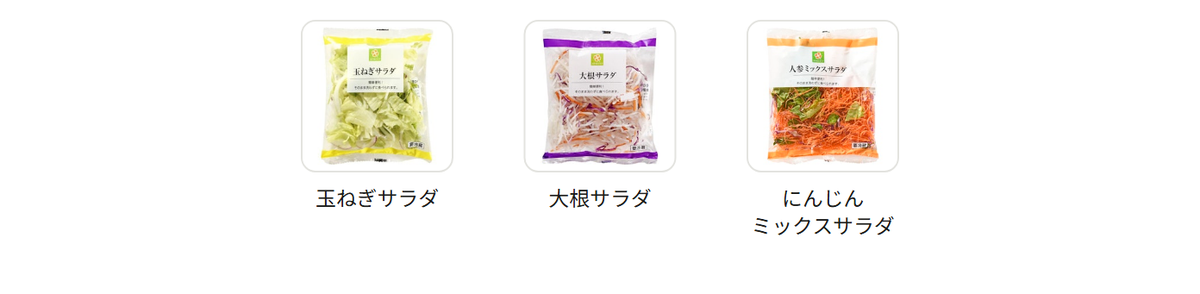
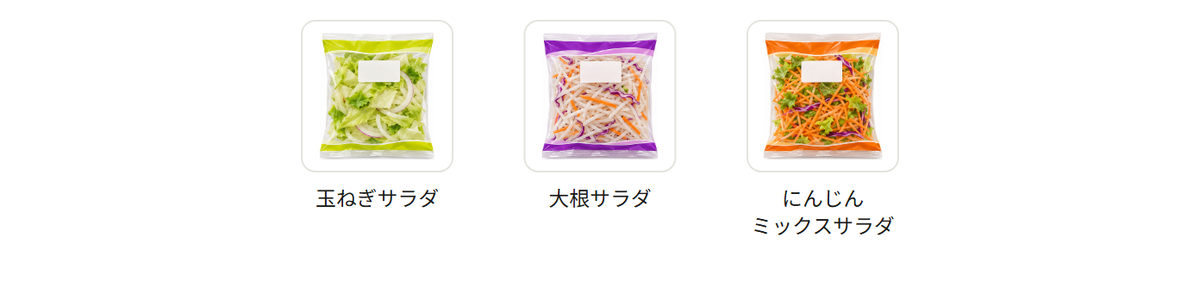
レビュー用ページ: 商品写真を架空の商品画像に差し替え

Changed region(s): [[0.6167, 0.1224, 0.74, 0.551], [0.4317, 0.0918, 0.555, 0.5816], [0.2467, 0.0918, 0.37, 0.551]]

diff --git a/ai-netsuper/index.html b/ai-netsuper/index.html
@@ -84,9 +84,9 @@ img.eye{margin:0 0 26px;border:0;border-radius:6px}
 <h2>AIでネットスーパーを操作する</h2>
 <p>ネットスーパーの操作には、AIがブラウザを操作できる Chrome の拡張機能「Claude in Chrome」を使いました。AIがライフのネットスーパーの画面を開き、献立に必要な商品が実際に買えるかを確かめながら、1週間分の買い物リストを作りました。</p>
 <p>特に便利だったのは、商品パッケージの画像も読んで、容量や表示を確かめてくれたことです。サラダはこれまで袋から出すだけで食べていたので、冷凍野菜も電子レンジを使わずに食べられるものを探してもらいました。AIが選んだのは、パッケージに「自然解凍でOK」と書かれた商品（富士通商の「手間なし！」シリーズのブロッコリーといんげん）です。冷凍コーンには、自然解凍できるという表示が確認できなかったので、コーンは缶詰にしました。1食分の量も「ブロッコリー70g＋コーン40g」のように出してくれました。</p>
-<img src="img07.png?v=62576e7f" alt="">
+<img src="img07.png?v=676c2b8c" alt="">
 <p>AIに買い物を考えてもらいましたが、一部の商品はネットスーパーで取り扱われていないこともわかりました。たとえば、店頭で買っていた千切りキャベツ（税抜79〜128円）はありませんでした。そこで、代わりの商品もAIに提案してもらいました。カット野菜は玉ねぎサラダ、大根サラダ、にんじんミックスサラダにしています。</p>
-<img src="img08.png?v=37c6e9ff" alt="">
+<img src="img08.png?v=1f8fa1ca" alt="">
 <p>AIは献立と買い物リストを、商品の写真つきのページにまとめてくれました。リストの合計は税込で約13,000円（税抜で約12,000円）になり、送料無料の条件を満たしました。</p>
 <img src="img09.jpg?v=e8ccbea3" alt="">
 <p class="cap">献立と買い物リストのページのイメージ（生成AIで作成）</p>
@@ -94,21 +94,21 @@ img.eye{margin:0 0 26px;border:0;border-radius:6px}
 <p>提案してもらった商品については、家族でレビューしていきます。妻と私で商品リストと献立を見て、マイク入力機能を使ってAIにフィードバックを伝えながら直しました。</p>
 <img src="img10.png?v=061bb3f1" alt="">
 <p class="cap">家族でのレビューで伝えた直し</p>
-<img src="img11.png?v=da7d137a" alt="">
+<img src="img11.png?v=e9e6f685" alt="">
 <p>我が家ならではの事情も伝えました。たとえば牛乳は、娘が「ギューギュー」と言いながらねだるので減りが早く、冷蔵庫には常に3本ほど置いておきたいと伝えました。</p>
 <h2>ちょっとだけランダム要素も追加</h2>
 <p>我が家では基本的に毎回私が買い物に行っているため、どうしても同じようなものばかり買ってしまうんですよね。</p>
 <p>そこで、AIにちょっとだけランダムに商品を選んでもらうようにしました。土日の昼に食べる温めるだけのごはんもの（ビビンバ、炒飯、ピラフなど12品）から、毎週2袋をAIが選びます。</p>
-<img src="img12.png?v=b04082d7" alt="">
+<img src="img12.png?v=7054279f" alt="">
 <h2>毎週の買い物をさらに効率化する</h2>
 <h3>マイリストへの登録</h3>
 <p>ライフのネットスーパーには「マイリスト」という機能があります。商品ページのハートマーク（お気に入りのボタン）を押すと、その商品がマイリストの「お気に入り商品」に入り、次からはその一覧からカートに入れられます。</p>
-<p>マイリストに商品を登録すれば、毎週の買い物はかなり楽になります。（AIエージェントにとっても楽になります）</p>
+<p>マイリストに商品を登録すれば、毎週の買い物はかなり楽になります。（AIエージェントにとっても、楽になります）</p>
 <img src="img13.jpg?v=317aa1c5" alt="">
 <p class="cap">マイリストに登録した商品の一覧のイメージ（生成AIで作成）</p>
 <h3>買い物量の調整</h3>
 <p>量を調整する必要があるものと言えば、ピルクルです。ピルクルとは要するにヤクルトみたいなもので、うちでは鉄分入りのピルクルを重宝しています。ピルクルは基本10個入りで、我が家では1日に2個消費します。つまり、1週間では14個必要です。1セットでは4個足りません。</p>
-<img src="img14.png?v=58e4a79f" alt="">
+<img src="img14.png?v=8b36f4cf" alt="">
 <img src="img15.png?v=08f61970" alt="">
 <p>一週間1セットで足りないからといって、毎週2セットずつ購入していると、毎週6個ずつ余っていきます。これを繰り返していると、どんどん在庫が増えてしまいます。</p>
 <img src="img16.png?v=61543fd7" alt="">
@@ -116,12 +116,12 @@ img.eye{margin:0 0 26px;border:0;border-radius:6px}
 <p>そこで、AIに在庫を考慮して購入数量を調整してもらうことにしました。たとえば、注文するときに残りの数をAIに伝え、4個以上残っていれば1セット、4個未満なら2セット買います。</p>
 <img src="img17.png?v=a79480c9" alt="">
 <p>食パンも同じです。我が家では8枚切りを毎日4枚、1週間に3袋半くらい消費するので、4袋買う必要があります。ただ、これを毎週繰り返していると、だんだん余っていくんですよね。こういった商品についても、AIに購入数量を調整してもらいます。</p>
-<img src="img18.png?v=531a4fa5" alt="">
+<img src="img18.png?v=5820ec1c" alt="">
 <img src="img19.png?v=18e33338" alt="">
 <h2>日用品の購入も効率化する</h2>
 <p>日用品（トイレットペーパー、洗剤、ボディソープの詰め替えなど）についても、ライフのネットスーパーで購入できるものと、購入できないものがあります。レシートにあった日用品を調べると、クリニカの洗口液を除いて、同じか近い商品がライフにありました。レシートには出てこないものの家で使っている日用品も調べると、浄水器のカートリッジ、掃除機の紙パック、加湿器のフィルターはありませんでした。</p>
 <p>そこで、購入できるものはライフのネットスーパーにまとめ、取り扱いのないものはAmazonの定期購入を利用することにしました。</p>
-<img src="img20.png?v=018586ae" alt="">
+<img src="img20.png?v=968bfdaa" alt="">
 <p class="cap">「ない」側の写真は、生成AIで作ったイメージです。</p>
 <h2>ほかのネットスーパーやAIでもできる？</h2>
 <p>ここまでの話は、ライフのネットスーパーと Claude in Chrome の組み合わせです。ネットスーパーの操作で私が試したのはこの組み合わせだけなので、ここからは「できそう」という話になります。</p>
@@ -145,7 +145,6 @@ img.eye{margin:0 0 26px;border:0;border-radius:6px}
 <p>レシートの分析から、献立、買い物リスト、マイリストへの登録、毎週の数の調整まで、AIに任せることができます。店に行く時間だけでなく、何を買うか、いくつ買うかを毎回考える手間も減らせます。</p>
 <p>今回はライフのネットスーパーの例でしたが、Claude in Chrome は画面を見ながら操作するので、パソコンのブラウザで注文できるネットスーパーなら、同じようにできると思います。お使いのネットスーパーで、試してみてください。</p>
 <hr>
-<p>個人情報を守るため、記事の内容には事実と一部異なる部分があります。レシートと、「（生成AIで作成）」などと書いた画像は、生成AIで作ったイメージです。商品の写真はライフのネットスーパーの商品画像です。</p>
 </div>
 </body>
 </html>
